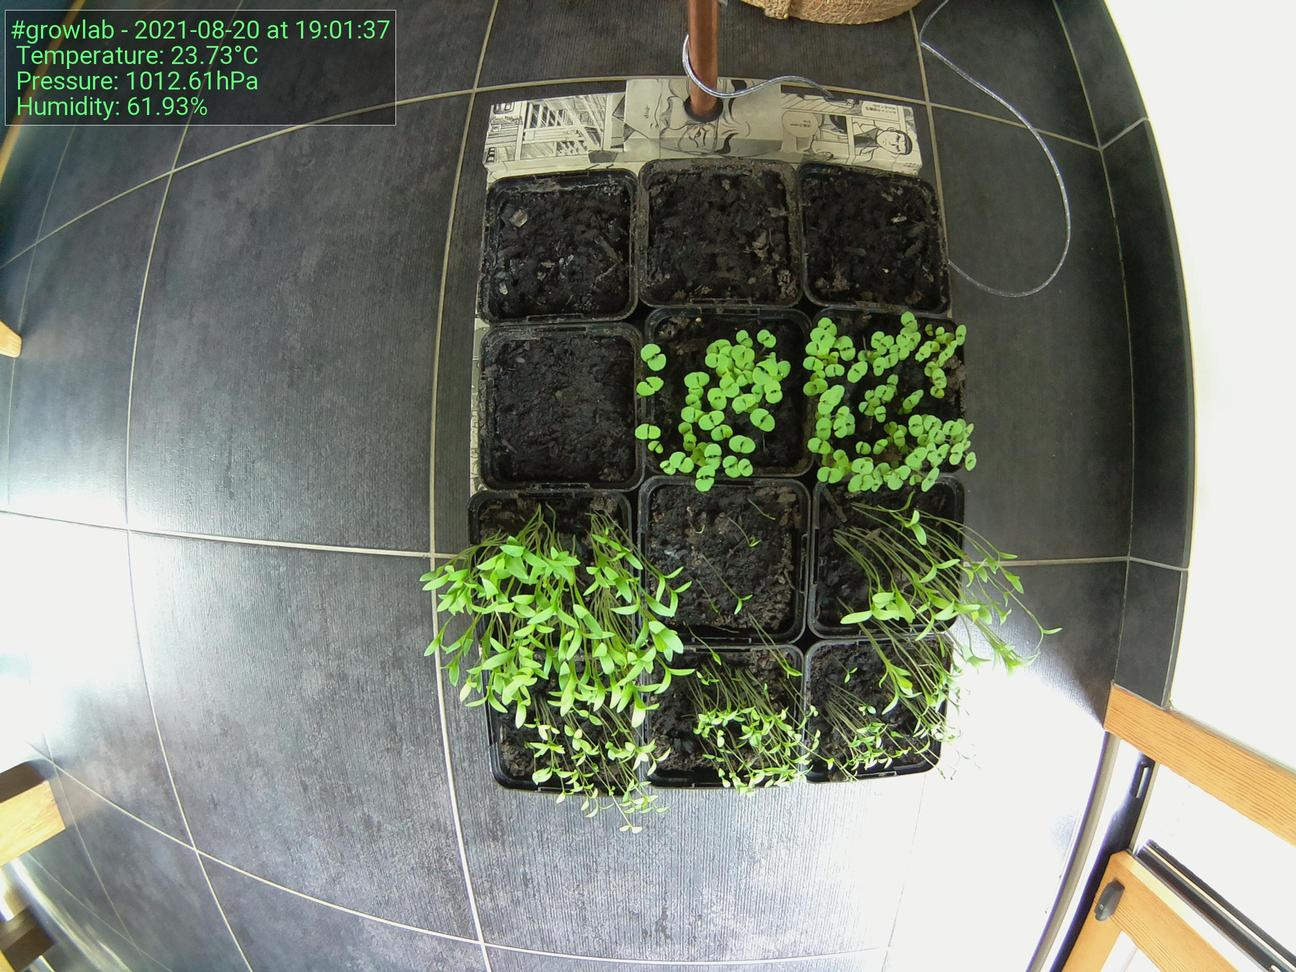
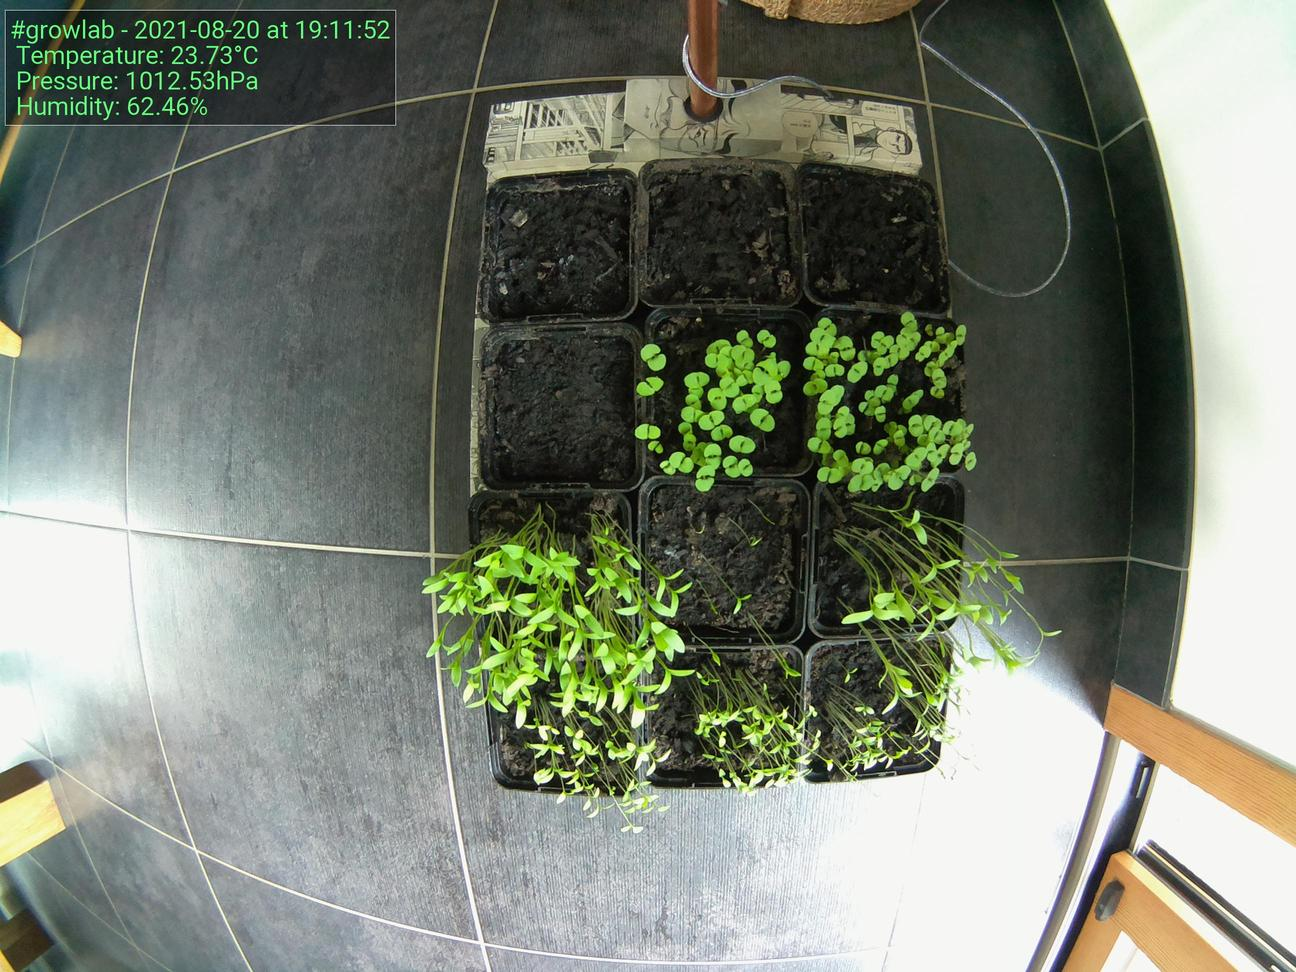
Update images at Fri 20 Aug 19:12:01 CEST 2021

diff --git a/docs/index.html b/docs/index.html
@@ -52,7 +52,7 @@
                             </tr>
                             <tr>
                                 <td>Time</td>
-                                <td>19:01:37</td>
+                                <td>19:11:52</td>
                             </tr>
                             <tr>
                                 <td>Temperature</td>
@@ -60,11 +60,11 @@
                             </tr>
                             <tr>
                                 <td>Humidity</td>
-                                <td>61.93%</td>
+                                <td>62.46%</td>
                             </tr>
                             <tr>
                                 <td>Pressure</td>
-                                <td>1012.61hPa</td>
+                                <td>1012.53hPa</td>
                             </tr>
                         </tbody>
                     </table>
@@ -72,7 +72,7 @@
 
                 <h5>Latest image</h5>
                 <div style="width: 85%;">
-                            <img class="figure-img img-fluid rounded" src="./preview.jpg?uid=1629478906.339333">
+                            <img class="figure-img img-fluid rounded" src="./preview.jpg?uid=1629479520.5910606">
                 </div>
             </div>
         </div>
